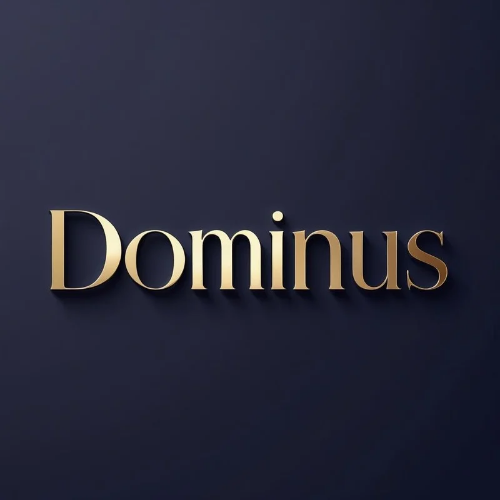
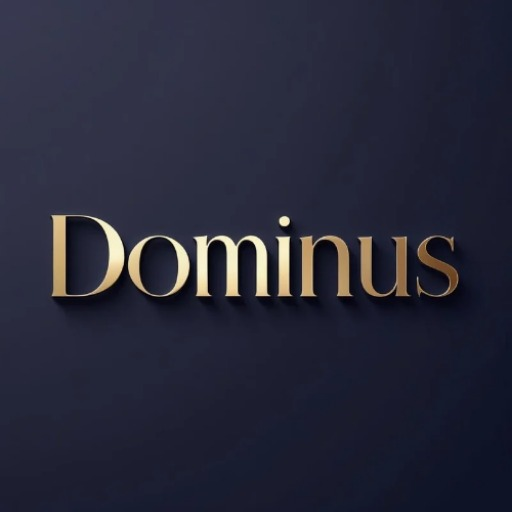
feat: iconos PWA corregidos a 192 y 512 PNG reales

diff --git a/CSS/Styles.css b/CSS/Styles.css
@@ -162,12 +162,17 @@ select option {
 
 .dashboard-cards {
     display: grid; 
-    grid-template-columns: 1fr 1fr 1fr;
+    /* Cambiamos el 1fr fijo por auto-fit */
+    grid-template-columns: repeat(auto-fit, minmax(100px, 1fr));
     gap: 10px; 
-    margin-top: 10px;
+    margin: 10px 15px; /* Añadimos margen lateral para que no toque los bordes del tlf */
 }
 
-.card-mini { text-align: center; font-size: 0.8rem; }
+.card-mini { 
+    text-align: center; 
+    font-size: 0.8rem; 
+    min-width: 0; /* Evita que el contenido desborde el cuadro */
+}
 .card-mini b { display: block; font-size: 1.1rem; }
 
 /* --- 4. BOTONES --- */
@@ -240,8 +245,21 @@ select option {
     font-size: 1.4rem; /* Los emojis o iconos se verán más grandes */
 }
 
-.app-section { padding-top: 10px; }
-.card { margin: 15px; display: flex; flex-direction: column; gap: 10px; }
+.app-section { 
+    padding-top: 10px; 
+    width: 100%;
+    box-sizing: border-box;
+}
+
+/* Ajuste para que las tarjetas no se salgan en móviles */
+.card { 
+    margin: 15px; 
+    display: flex; 
+    flex-direction: column; 
+    gap: 10px; 
+    max-width: calc(100% - 30px); /* Restamos los márgenes del ancho total */
+}
+
 .card-grafica {
     margin: 15px;
     padding: 15px;
@@ -249,6 +267,7 @@ select option {
     border-radius: 15px;
     height: 200px;
     position: relative;
+    max-width: calc(100% - 30px);
 }
 
 .hidden { display: none !important; }
@@ -264,6 +283,27 @@ select option {
     padding: 10px;
     background: rgba(255,255,255,0.05);
     border-radius: 8px;
+    
+    /* --- ESTO ES LO QUE LO ARREGLA --- */
+    box-sizing: border-box; /* Incluye el padding en el ancho */
+    max-width: calc(100% - 30px); /* El 100% de la pantalla menos los márgenes (15+15) */
+    overflow: hidden; /* Corta cualquier cosa que intente asomarse */
+}
+
+/* Para asegurar que lo que está adentro no empuje las paredes */
+.item-lista span {
+    display: block;
+    overflow: hidden;
+    text-overflow: ellipsis;
+    white-space: nowrap;
+}
+
+/* ESTO ASEGURA QUE EL PRECIO NUNCA SE MUEVA DE SU SITIO */
+.item-lista span:last-child {
+    flex-shrink: 0; 
+    white-space: nowrap;
+    font-weight: bold;
+    color: var(--primary);
 }
 
 .border-fiao { border-left: 5px solid var(--primary); }

diff --git a/index.html b/index.html
@@ -224,8 +224,8 @@
                         <input type="number" id="inv-cant" name="inv-cant" placeholder="Cantidad">
                     </div>
                     <div style="flex:1">
-                        <label for="inv-precio">Precio Bs:</label>
-                        <input type="number" id="inv-precio" name="inv-precio" placeholder="Precio Bs">
+                        <label for="inv-precio">Precio:</label>
+                        <input type="number" id="inv-precio" name="inv-precio" placeholder="Precio">
                     </div>
                 </div>
 
